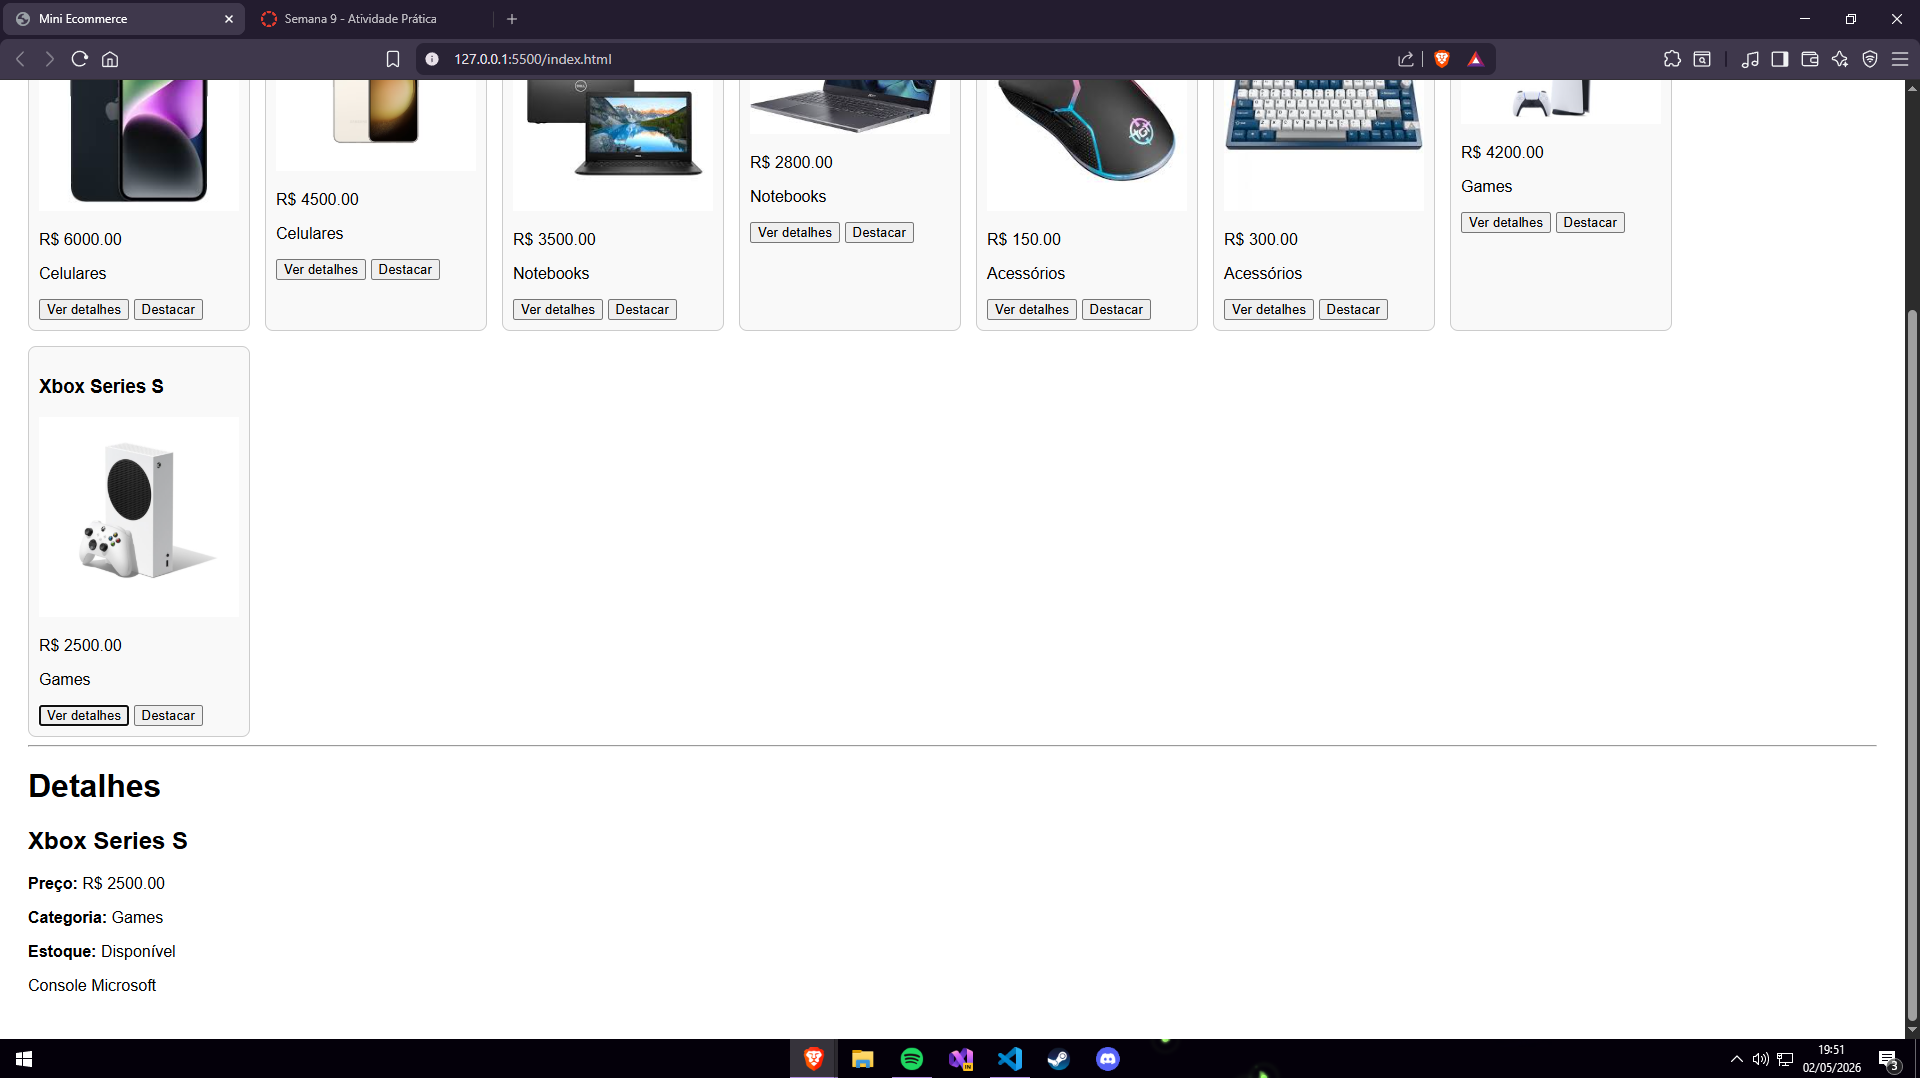
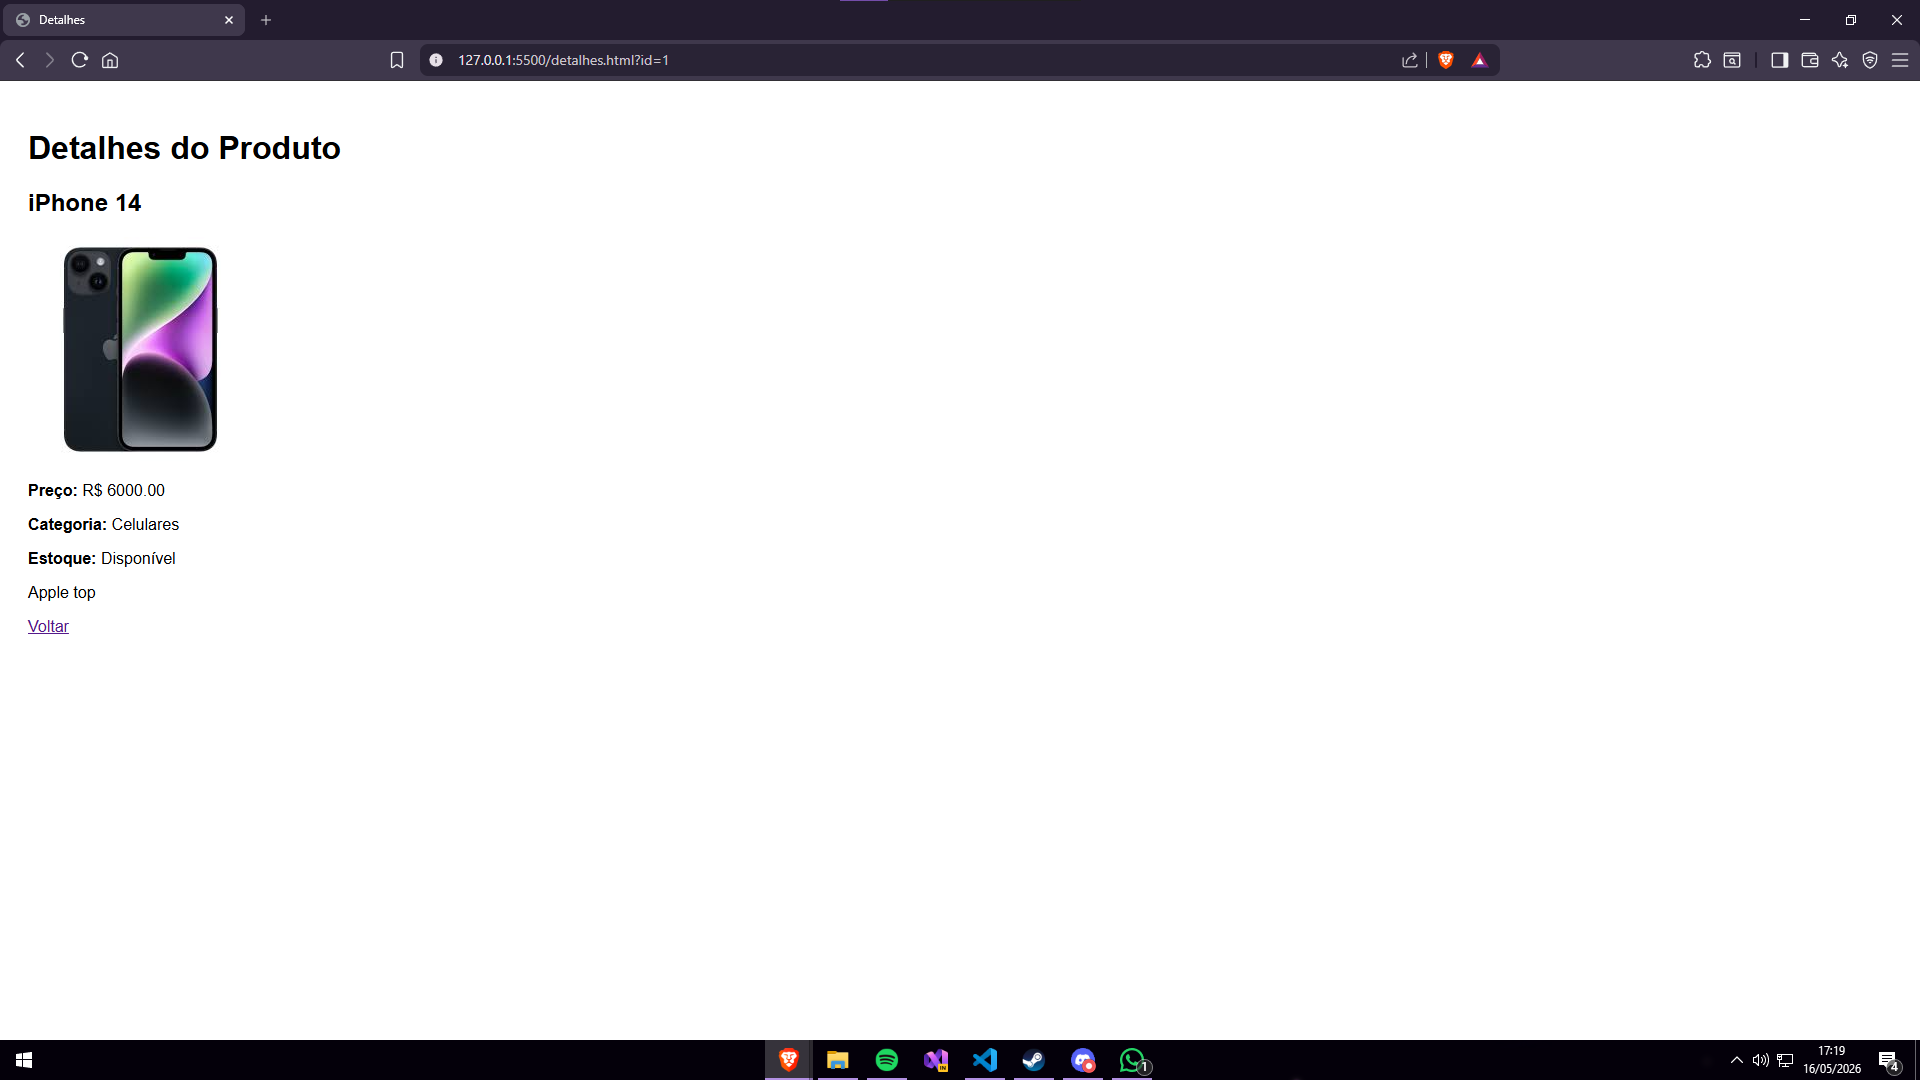
Atividade Semana 11 Finalizada

diff --git a/script.js b/script.js
@@ -1,4 +1,3 @@
-
 const data = {
   produtos: [
     { id: 1, nome: "iPhone 14", preco: 6000, categoria: "Celulares", imagem: "https://encrypted-tbn0.gstatic.com/images?q=tbn:ANd9GcQSoKtFZMz9ecfWPCMtqmq8dIpM2olviEBokA&s", descricao: "Apple top", emEstoque: true },
@@ -12,7 +11,9 @@ const data = {
   ]
 };
 
-
+// ==========================
+// Seletores
+// ==========================
 const productList = document.getElementById("product-list");
 const productDetails = document.getElementById("product-details");
 
@@ -20,12 +21,12 @@ const searchInput = document.querySelector("#search");
 const categorySelect = document.querySelector("#category");
 const btnRender = document.querySelector("#btnRender");
 
-
-
+// ==========================
+// Funções
+// ==========================
 function formatPrice(preco) {
   return "R$ " + preco.toFixed(2);
 }
-
 
 function createProductCard(produto) {
   const card = document.createElement("div");
@@ -33,25 +34,23 @@ function createProductCard(produto) {
   card.setAttribute("data-id", produto.id);
   card.classList.add("card");
 
- 
   card.style.backgroundColor = "#f9f9f9";
   card.style.padding = "10px";
 
   card.innerHTML = `
-    <h3>${produto.nome}</h3> 
-    <img src="${produto.imagem}">
+    <h3>${produto.nome}</h3>
+    <img src="${produto.imagem}" style="cursor:pointer">
     <p>${formatPrice(produto.preco)}</p>
     <p>${produto.categoria}</p>
     <button class="btn-details">Ver detalhes</button>
     <button class="btn-highlight">Destacar</button>
   `;
 
-  
   const btnDetails = card.querySelector(".btn-details");
   const btnHighlight = card.querySelector(".btn-highlight");
 
   btnDetails.addEventListener("click", () => {
-    showProductDetails(produto);
+    window.location.href = `detalhes.html?id=${produto.id}`;
   });
 
   btnHighlight.addEventListener("click", () => {
@@ -61,8 +60,9 @@ function createProductCard(produto) {
   return card;
 }
 
-
 function renderProducts(produtos) {
+  if (!productList) return;
+
   productList.innerHTML = "";
 
   produtos.forEach(produto => {
@@ -70,15 +70,15 @@ function renderProducts(produtos) {
     productList.appendChild(card);
   });
 
-
   const cards = document.querySelectorAll(".card");
   cards.forEach(card => {
     console.log("Card ID:", card.getAttribute("data-id"));
   });
 }
 
-
 function renderCategories() {
+  if (!categorySelect) return;
+
   const categorias = [...new Set(data.produtos.map(p => p.categoria))];
 
   categorySelect.innerHTML = '<option value="Todas">Todas</option>';
@@ -91,19 +91,9 @@ function renderCategories() {
   });
 }
 
-
-function showProductDetails(produto) {
-  productDetails.innerHTML = `
-    <h2>${produto.nome}</h2>
-    <p><strong>Preço:</strong> ${formatPrice(produto.preco)}</p>
-    <p><strong>Categoria:</strong> ${produto.categoria}</p>
-    <p><strong>Estoque:</strong> ${produto.emEstoque ? "Disponível" : "Indisponível"}</p>
-    <p>${produto.descricao}</p>
-  `;
-}
-
-
 function filterProducts() {
+  if (!searchInput || !categorySelect) return data.produtos;
+
   const texto = searchInput.value.toLowerCase();
   const categoria = categorySelect.value;
 
@@ -115,19 +105,61 @@ function filterProducts() {
   });
 }
 
+// ==========================
+// DETALHES
+// ==========================
+function getProductIdFromURL() {
+  const params = new URLSearchParams(window.location.search);
+  return Number(params.get("id"));
+}
 
-searchInput.addEventListener("input", () => {
-  renderProducts(filterProducts());
-});
+function renderDetailsPage() {
+  if (!productDetails) return;
 
-categorySelect.addEventListener("change", () => {
-  renderProducts(filterProducts());
-});
+  const id = getProductIdFromURL();
+  const produto = data.produtos.find(p => p.id === id);
 
-btnRender.addEventListener("click", () => {
-  renderProducts(filterProducts());
-});
+  if (!produto) return;
 
+  productDetails.innerHTML = `
+    <h2>${produto.nome}</h2>
+    <img src="${produto.imagem}" style="max-width:300px">
+    <p><strong>Preço:</strong> ${formatPrice(produto.preco)}</p>
+    <p><strong>Categoria:</strong> ${produto.categoria}</p>
+    <p><strong>Estoque:</strong> ${produto.emEstoque ? "Disponível" : "Indisponível"}</p>
+    <p>${produto.descricao}</p>
+  `;
+}
 
-renderCategories();
-renderProducts(data.produtos);
+// ==========================
+// Eventos (somente index)
+// ==========================
+if (searchInput) {
+  searchInput.addEventListener("input", () => {
+    renderProducts(filterProducts());
+  });
+}
+
+if (categorySelect) {
+  categorySelect.addEventListener("change", () => {
+    renderProducts(filterProducts());
+  });
+}
+
+if (btnRender) {
+  btnRender.addEventListener("click", () => {
+    renderProducts(filterProducts());
+  });
+}
+
+// ==========================
+// Inicialização
+// ==========================
+if (productList) {
+  renderCategories();
+  renderProducts(data.produtos);
+}
+
+if (productDetails) {
+  renderDetailsPage();
+}

diff --git a/detalhes.html b/detalhes.html
@@ -3,6 +3,7 @@
 <head>
   <meta charset="UTF-8">
   <title>Detalhes</title>
+  <link rel="stylesheet" href="style.css">
 </head>
 <body>
 

diff --git a/README.md b/README.md
@@ -1,10 +1,7 @@
 # Bernardo Soares de Sousa Cozer
 
-## Cards Renderizados
+## Home Page
 ![Cards](img/Cards.png)
 
-## Detalhes Carregados
+## Página de Detalhes
 ![Detalhes](img/Detalhes.png)
-
-## Saída Do Console
-![Console](img/Console.png)